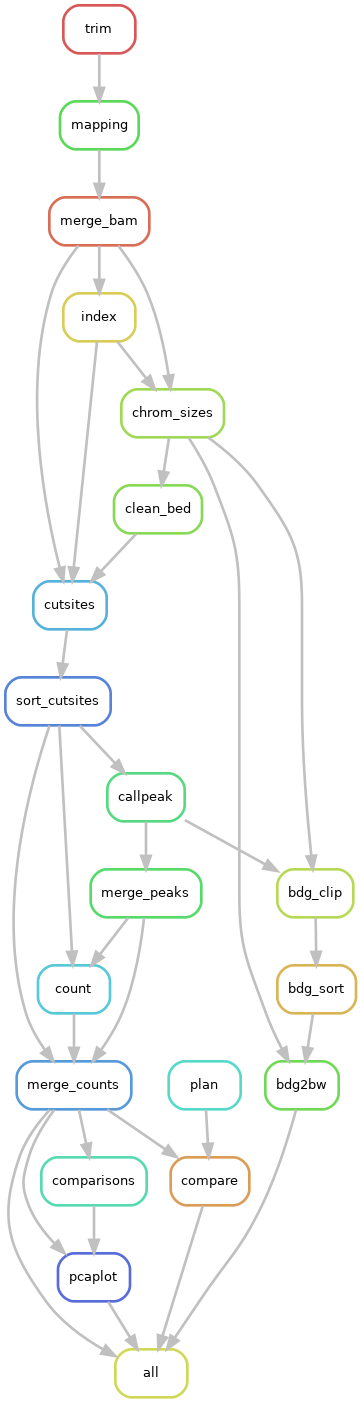
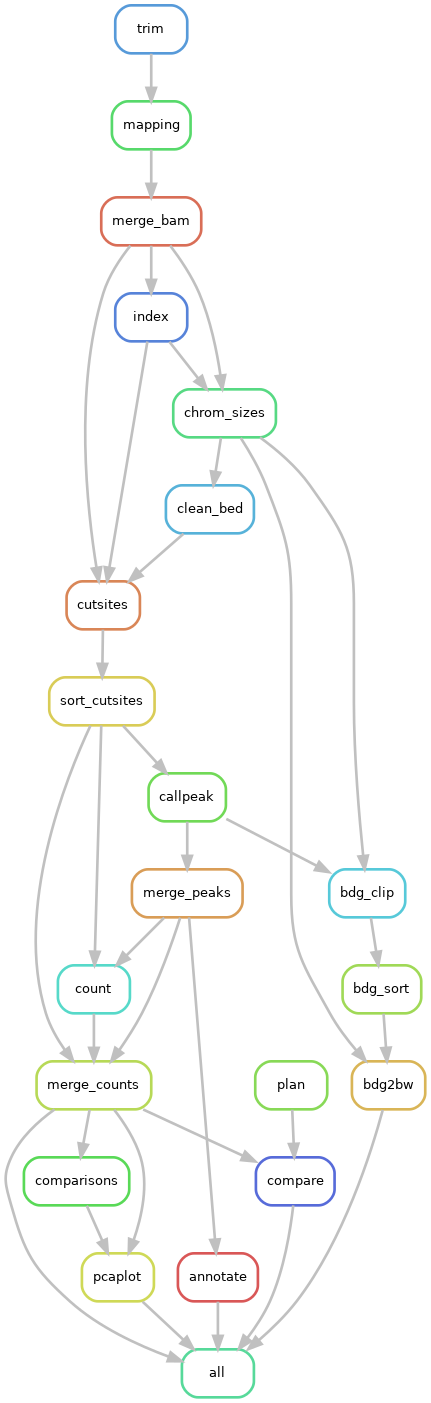
add annotate

diff --git a/README.md b/README.md
@@ -11,7 +11,7 @@
 ```bash
 conda create -n dapipe
 conda activate dapipe
-conda install --file environment.yaml
+conda install --file environment.yml
 ```
 
 ## 运行流程
